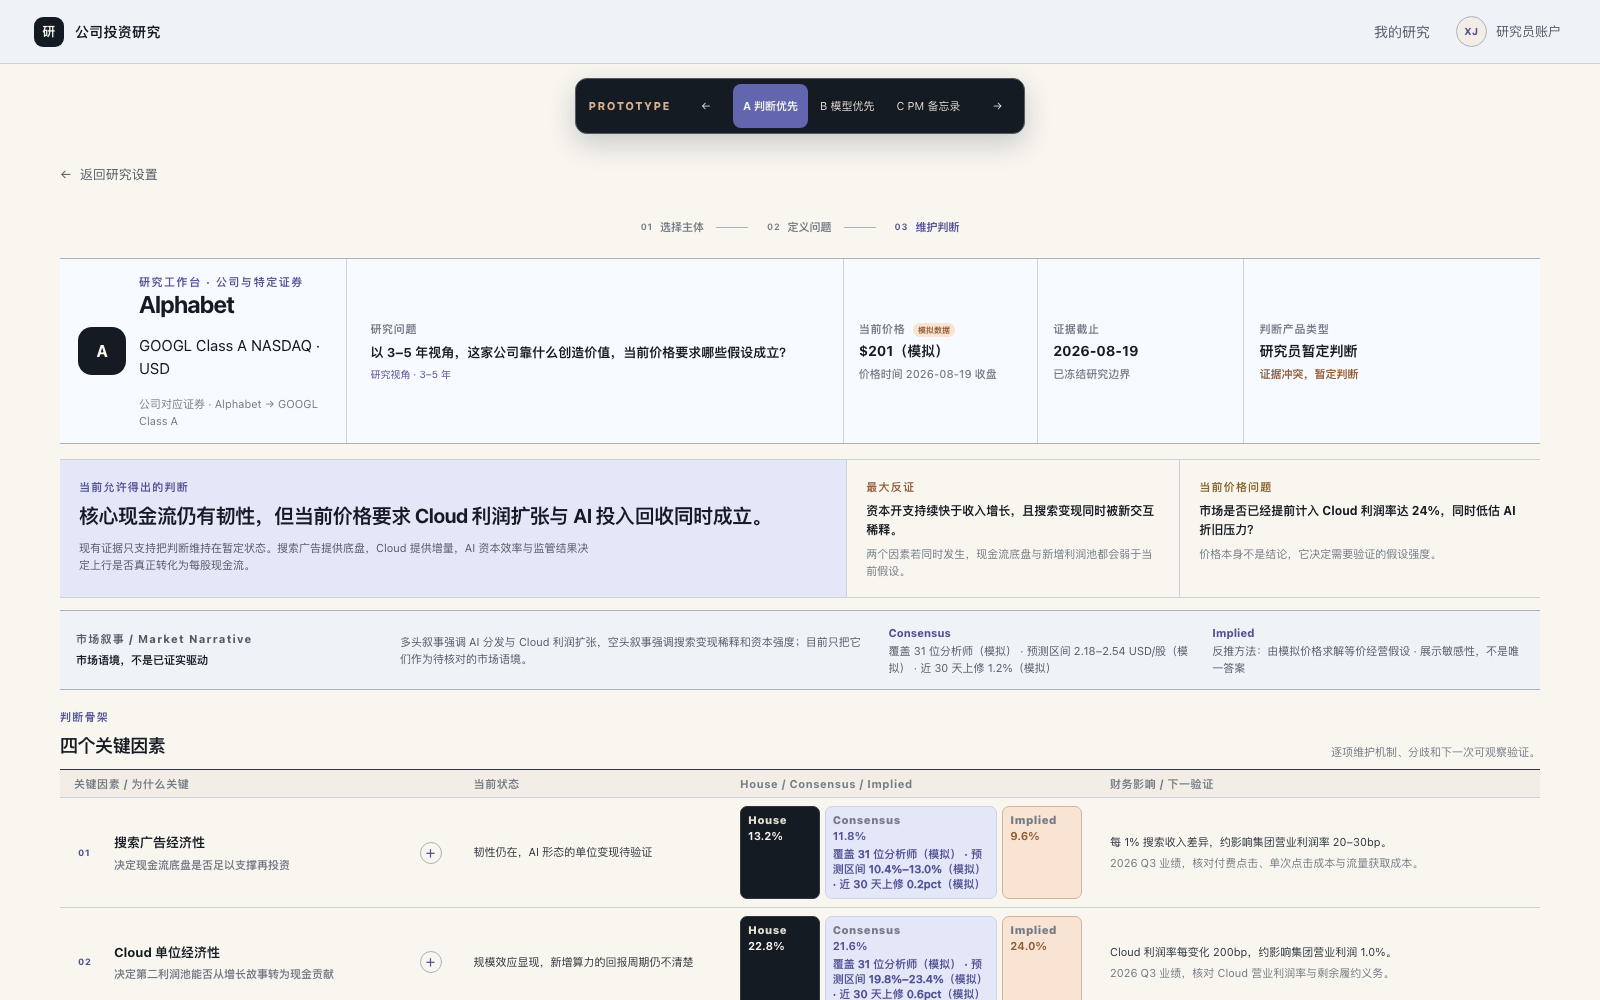
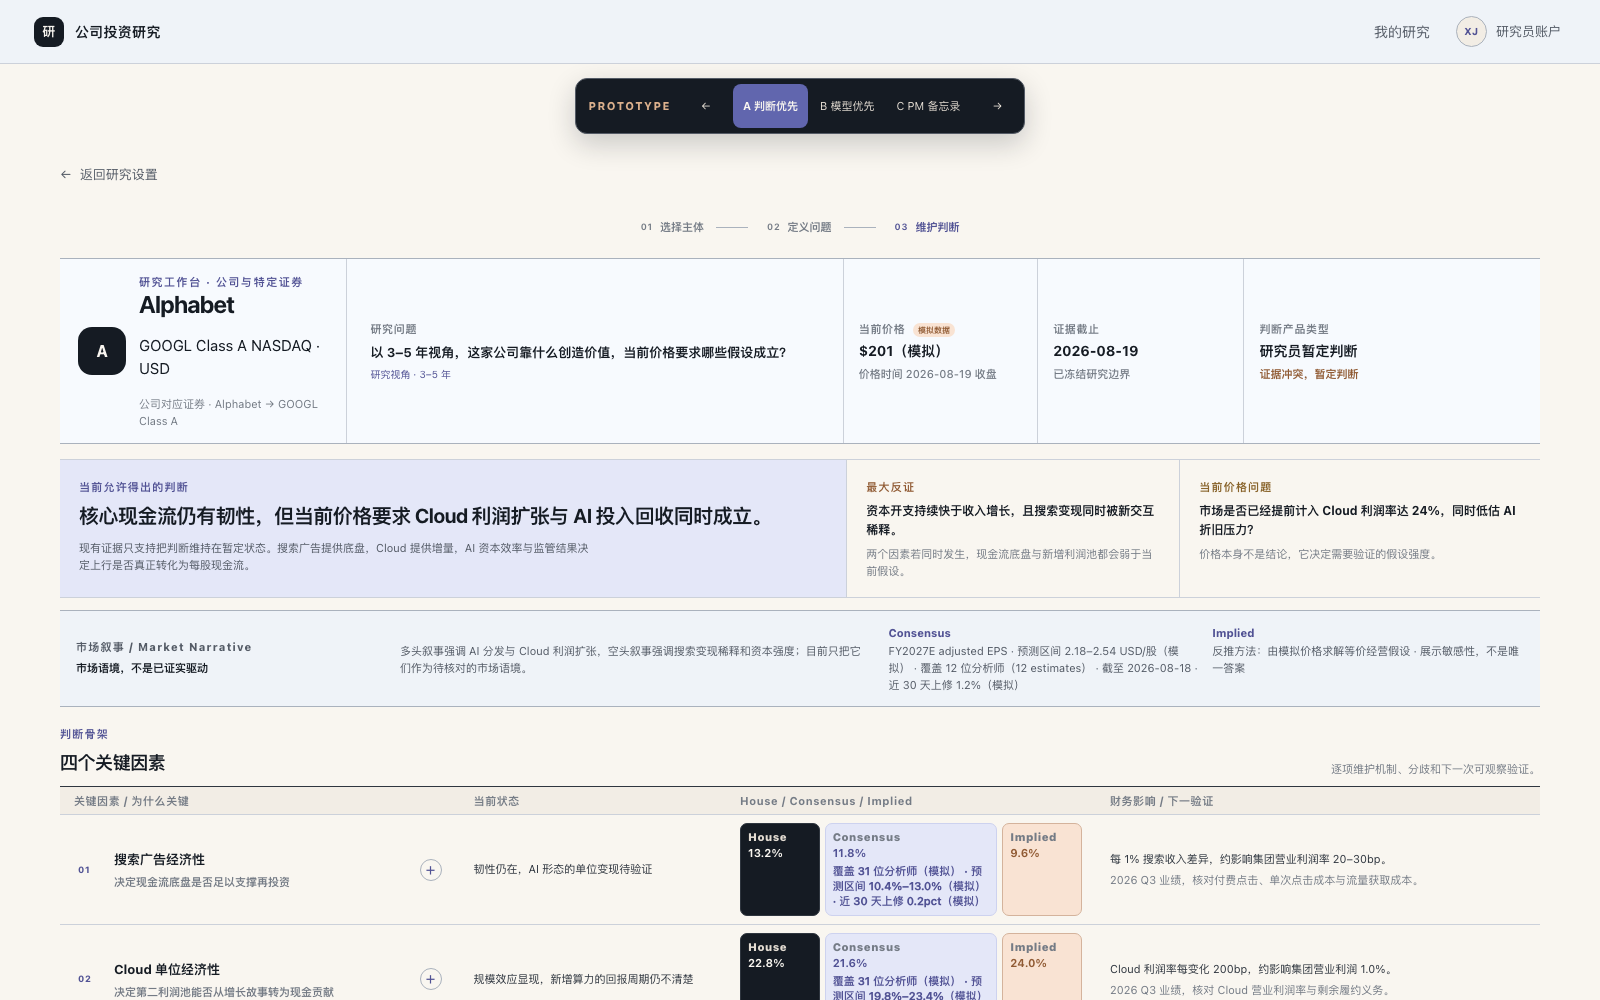
prototype: clarify model and consensus boundaries

diff --git a/prototype/investment-research-prototype/screens/workbench.js b/prototype/investment-research-prototype/screens/workbench.js
@@ -452,6 +452,7 @@ function renderVariantB(factors, entity) {
         <div class="model-differences" aria-labelledby="difference-title">
           <p class="section-kicker">情景差异</p>
           <h2 id="difference-title">模型分歧</h2>
+          <p class="model-sensitivity-boundary"><strong>窄范围模型敏感性</strong><span>只比较 House / Consensus / Implied，不是完整五类数据台账。</span></p>
           <table class="model-ledger" data-model-table>
             <thead><tr class="model-ledger-head"><th scope="col">驱动</th><th scope="col">House</th><th scope="col">Consensus</th><th scope="col">Implied</th></tr></thead>
             <tbody>${factors.map((factor) => {
@@ -465,6 +466,10 @@ function renderVariantB(factors, entity) {
             <span>主要差异</span>
             <p>${entity.modelReading}</p>
           </div>
+          <details class="complete-typed-ledgers" data-complete-typed-ledgers>
+            <summary>查看完整五类数据台账</summary>
+            <div>${factors.map((factor) => `<section><h3>${factor.name}</h3>${renderMetrics(factor.metrics)}</section>`).join('')}</div>
+          </details>
         </div>
       </section>
 
@@ -595,7 +600,13 @@ function metricChip(metric) {
 }
 
 function metricValue(metric) {
-  return `<span class="model-${metric.kind.toLowerCase()}"><b>${metric.value}${metric.unit}</b><small>${metric.period}</small>${metric.kind === 'Consensus' ? `<small class="consensus-disclosure">${disclosureText(metric.disclosure)}</small>` : ''}</span>`;
+  const compactBoundary = metric.kind === 'Implied'
+    ? '反推方法：固定其他 House 假设，求解等价单一变量'
+    : metric.sourceBoundary;
+  const boundary = ['House', 'Implied'].includes(metric.kind)
+    ? `<small class="model-boundary">${compactBoundary} · 截至 ${metric.asOf}</small>`
+    : '';
+  return `<span class="model-${metric.kind.toLowerCase()}"><b>${metric.value}${metric.unit}</b><small>${metric.period}</small>${metric.kind === 'Consensus' ? `<small class="consensus-disclosure">${disclosureText(metric.disclosure)}</small>` : ''}${boundary}</span>`;
 }
 
 function renderFactorDetail(factor) {
@@ -704,7 +715,7 @@ function entityFor(securityCode) {
   if (securityCode === '300750.SZ') return {
     company: '宁德时代', securityLabel: '300750.SZ', mark: '宁', exchange: '深圳证券交易所', currency: 'CNY', price: '¥260（模拟）',
     narrative: '多头叙事强调储能与海外扩张，空头叙事强调价格下降和产能回报；两者都需要用出货、单位利润与现金流核对。',
-    consensusSummary: '覆盖 24 位分析师（模拟） · 预测区间 12.4–15.8 CNY/股（模拟） · 近 30 天下修 0.7%（模拟）',
+    consensusSummary: 'FY2027E adjusted EPS · 预测区间 12.4–15.8 CNY/股（模拟） · 覆盖 18 位分析师（18 estimates） · 截至 2026-08-18 · 近 30 天下修 0.7%（模拟）',
     judgment: '动力电池规模仍有韧性，但价格要求储能增长与海外产能回报共同兑现。',
     judgmentDetail: '现有证据只支持暂定判断。动力电池提供底盘，储能提供增量，海外产能利用率与技术迭代决定增长能否转为每股现金流。',
     counter: '电池价格持续下降，且海外产能利用率不足以覆盖新增折旧。',
@@ -725,7 +736,7 @@ function entityFor(securityCode) {
   return {
     company: 'Alphabet', securityLabel: isClassC ? 'GOOG Class C' : 'GOOGL Class A', mark: 'A', exchange: 'NASDAQ', currency: 'USD', price: '$201（模拟）',
     narrative: '多头叙事强调 AI 分发与 Cloud 利润扩张，空头叙事强调搜索变现稀释和资本强度；目前只把它们作为待核对的市场语境。',
-    consensusSummary: '覆盖 31 位分析师（模拟） · 预测区间 2.18–2.54 USD/股（模拟） · 近 30 天上修 1.2%（模拟）',
+    consensusSummary: 'FY2027E adjusted EPS · 预测区间 2.18–2.54 USD/股（模拟） · 覆盖 12 位分析师（12 estimates） · 截至 2026-08-18 · 近 30 天上修 1.2%（模拟）',
     judgment: '核心现金流仍有韧性，但当前价格要求 Cloud 利润扩张与 AI 投入回收同时成立。',
     judgmentDetail: '现有证据只支持把判断维持在暂定状态。搜索广告提供底盘，Cloud 提供增量，AI 资本效率与监管结果决定上行是否真正转化为每股现金流。',
     counter: '资本开支持续快于收入增长，且搜索变现同时被新交互稀释。',

diff --git a/prototype/investment-research-prototype/screens/setup.js b/prototype/investment-research-prototype/screens/setup.js
@@ -70,7 +70,7 @@ export function renderSetup(root, { navigate, params }) {
               </summary>
               <div class="ideas-fields">
                 <label for="hypothesis">你的假设</label>
-                <textarea id="hypothesis" name="hypothesis" rows="3" placeholder="例如：云业务的规模效应会抵消 AI 基础设施投入。">${escapeHtml(hypothesis)}</textarea>
+                <textarea id="hypothesis" name="hypothesis" rows="3" placeholder="${escapeHtml(entity.hypothesisPlaceholder)}">${escapeHtml(hypothesis)}</textarea>
                 <label for="concern">你最担心什么？</label>
                 <textarea id="concern" name="concern" rows="2" placeholder="例如：资本开支增长快于可持续现金回报。">${escapeHtml(concern)}</textarea>
               </div>
@@ -142,6 +142,7 @@ function entityFor(securityCode) {
     business: '动力电池、储能电池与电池材料构成主要收入与资本投入方向。',
     context: '市场正在判断储能增长、海外产能利用率与电池价格下降如何共同影响资本回报。',
     defaultQuestion: '动力电池需求增长能否抵消单位价格下降，并转化为可持续自由现金流？',
+    hypothesisPlaceholder: '例如：储能业务增长与制造效率改善可以抵消动力电池单位价格下降。',
     previewQuestions: [
       '动力电池需求增长能否抵消单位价格下降，并转化为可持续自由现金流？',
       '储能业务的增长与利润贡献如何验证？',
@@ -156,6 +157,7 @@ function entityFor(securityCode) {
     business: '搜索与广告构成现金流基础，Google Cloud 与 AI 基础设施扩展长期增长边界。',
     context: '市场正在重新判断资本开支、AI 分发优势与云业务利润率之间的关系。',
     defaultQuestion,
+    hypothesisPlaceholder: '例如：云业务的规模效应会抵消 AI 基础设施投入。',
     previewQuestions: [
       '核心业务如何获得用户注意力，并把它转化为可持续收入？',
       '搜索分发、数据与计算基础设施形成了怎样的竞争优势？',
@@ -170,6 +172,7 @@ function entityFor(securityCode) {
     business: '搜索与广告构成现金流基础，Google Cloud 与 AI 基础设施扩展长期增长边界。',
     context: '市场正在重新判断资本开支、AI 分发优势与云业务利润率之间的关系。',
     defaultQuestion,
+    hypothesisPlaceholder: '例如：云业务的规模效应会抵消 AI 基础设施投入。',
     previewQuestions: [
       '核心业务如何获得用户注意力，并把它转化为可持续收入？',
       '搜索分发、数据与计算基础设施形成了怎样的竞争优势？',

diff --git a/prototype/investment-research-prototype/styles/responsive.css b/prototype/investment-research-prototype/styles/responsive.css
@@ -852,16 +852,16 @@ main[data-workbench-variant='A'] {
 }
 
 .model-ledger :is(th, td):first-child {
-  width: 30%;
+  width: 22%;
 }
 
-.model-ledger :is(th, td):nth-child(2),
+.model-ledger :is(th, td):nth-child(2) {
+  width: 20%;
+}
+
+.model-ledger :is(th, td):nth-child(3),
 .model-ledger :is(th, td):nth-child(4) {
-  width: 16%;
-}
-
-.model-ledger :is(th, td):nth-child(3) {
-  width: 38%;
+  width: 29%;
 }
 
 .factor-row > th,
@@ -872,6 +872,50 @@ main[data-workbench-variant='A'] {
 
 .model-consensus .consensus-disclosure {
   color: var(--accent-700);
+}
+
+.model-sensitivity-boundary {
+  display: flex;
+  flex-wrap: wrap;
+  gap: 4px 8px;
+  margin: 8px 0 12px;
+  color: var(--graphite-650);
+  font-size: 11px;
+  line-height: 1.45;
+}
+
+.model-sensitivity-boundary strong {
+  color: var(--graphite-900);
+}
+
+.model-boundary {
+  display: block;
+  margin-top: 5px;
+  line-height: 1.35;
+}
+
+.complete-typed-ledgers {
+  margin-top: 14px;
+  border-top: 1px solid var(--line);
+}
+
+.complete-typed-ledgers summary {
+  display: flex;
+  min-height: 44px;
+  align-items: center;
+  color: var(--accent-700);
+  cursor: pointer;
+  font-size: 12px;
+  font-weight: 720;
+}
+
+.complete-typed-ledgers section + section {
+  margin-top: 18px;
+}
+
+.complete-typed-ledgers h3 {
+  margin: 0 0 8px;
+  font-size: 12px;
 }
 
 .validation-draft dt {
